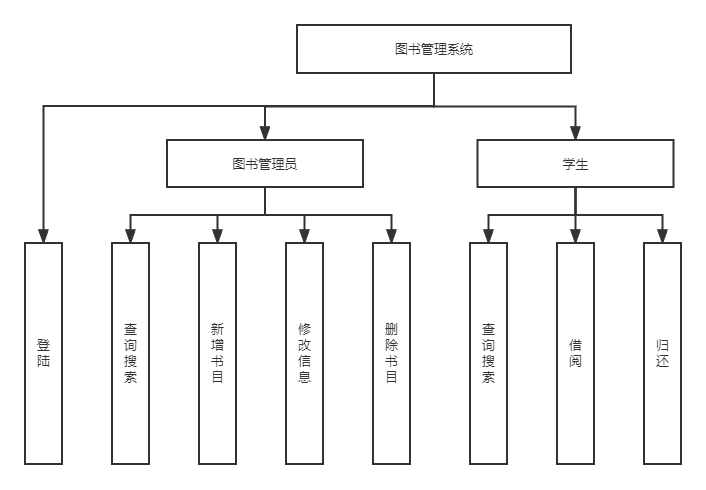
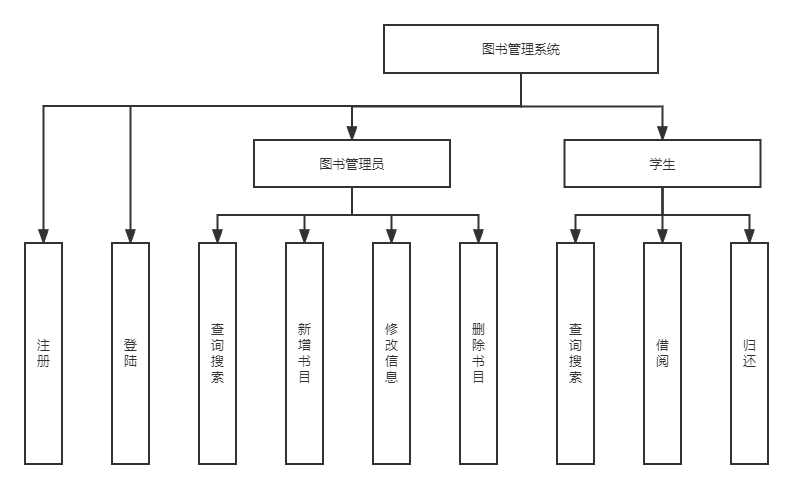
完成第一次迭代周期要求的文档

diff --git a/README.md b/README.md
@@ -3,8 +3,9 @@
 ## 一、软件计划文档
 
 ### 1.系统概述
-    读书可以开阔视野，提升思想水平，充实心灵，修身养性。
-    由于学校藏书量大，借阅人数多，人工工作方式不仅会照成办理时间的延误和人力资源的浪费，而且存在着各种信息不宜存放、易丢失、难以备份和查询等缺点，因此实现一个将各种图书管理和服务功能集合起来的管理系统就显得十分必要，既可以节省资源又可以有效存储、查询和更新信息，提高工作和服务效率。
+    读书可以开阔视野，提升思想水平，充实心灵，修身养性。  
+    由于学校藏书量大，借阅人数多，人工工作方式不仅会照成办理时间的延误和人力资源的浪费，而且存在着各种信息不宜存放、易丢失、难以备份和查询等缺点，  
+    因此实现一个将各种图书管理和服务功能集合起来的管理系统就显得十分必要，既可以节省资源又可以有效存储、查询和更新信息，提高工作和服务效率。
 
 ### 2.软件开发过程模型
 | 软件生命周期 | 是否首先定义好所有的需求 | 是否有多个开发周期 | 是否有中间软件 |
@@ -77,8 +78,9 @@
 
 ## 二、需求分析
 ### 1.系统概述
-    由于学校藏书量大，借阅人数多，人工工作方式不仅会照成办理时间的延误和人力资源的浪费，而且存在着各种信息不宜存放、易丢失、难以备份和查询等缺点，因此实现一个将各种图书管理和服务功能集合起来的管理系统就显得十分必要，既可以节省资源又可以有效存储、查询和更新信息，提高工作和服务效率。
-    本系统将用于对图书馆藏书进行管理，包括但不局限于查询搜索、增添书目、修改信息、删除书目以及借阅、归还等功能，并在项目的第三个迭代周期内考虑扩展一定的功能，具体将在后期补充。
+    由于学校藏书量大，借阅人数多，人工工作方式不仅会照成办理时间的延误和人力资源的浪费，而且存在着各种信息不宜存放、易丢失、难以备份和查询等缺点，  
+    因此实现一个将各种图书管理和服务功能集合起来的管理系统就显得十分必要，既可以节省资源又可以有效存储、查询和更新信息，提高工作和服务效率。  
+    本系统将用于对图书馆藏书进行管理，包括但不局限于查询搜索、增添书目、修改信息、删除书目以及借阅、归还等功能，并在项目的第三个迭代周期内考虑扩展一定的功能，具体将在后期补充。  
 
 ### 2.需求概述
 #### **目标**
@@ -102,3 +104,63 @@
 无特殊要求
 
 ### 4.需求规定
+#### 1)软件系统总体功能结构
+![Functional_structure_diagram](https://github.com/shiki21/LibraryManagementSystem/blob/main/media/系统功能结构图.png)
+
+#### 2)功能需求
+##### 数据流图
+- 顶层数据流图
+    ![top_Data_Flow_Diagram](https://github.com/shiki21/LibraryManagementSystem/blob/main/media/顶层数据流图.png)
+- 数据流图及加工判定树
+    ![Data_Flow_Diagram](https://github.com/shiki21/LibraryManagementSystem/blob/main/media/数据流图.png)
+    
+##### 用例图
+- 总用例图
+    ![total_use_case_diagram](https://github.com/shiki21/LibraryManagementSystem/blob/main/media/总用例图.png)
+- 用例描述
+    * __用例“注册”__
+        > 该用例是用户使用系统前需要进行的必要步骤，通过注册并登陆即可使用系统。  
+        > 角色为：图书管理员，学生。  
+        > 无前置条件，后置条件为可以使用用例“登陆”。  
+        > 基本流：进入用户注册界面，填写用户名，密码等信息后，若检查均合法，即可完成注册。  
+        > 备用流：用户名/密码等填写不规范，注册失败，提示用户请重新输入。  
+    * __用例“登陆”__
+        > 该用例是用户使用系统前需要进行的必要步骤，通过前一步注册后即可登陆，登陆后才可使用系统其他功能。  
+        > 角色为：图书管理员，学生。  
+        > 前置条件为“注册”，后置条件为可以使用出注册外的其他功能。  
+        > 基本流：进入用户注册界面，填写用户名，密码等信息后，若检查均合法，即可完成登陆。  
+        > 备用流：用户名/密码等填写不规范，注册失败，提示用户请重新输入。  
+    * __用例“查询搜索”__
+        > 该用例是用户使用系统时用于查看信息的主要功能，通过查询搜索可以将系统内图书的信息呈现出来。  
+        > 角色为：图书管理员，学生。  
+        > 前置条件为“登陆”，无后置条件。
+        > 基本流：进入查询搜索界面，填写关键词并点击搜索按钮，即可找到包含关键词的相应条目。  
+        > 备用流：数据库中不包含搜索的关键词，提示用户无相关结果和请重新输入。  
+    * __用例“新增图书”__
+        > 该用例是管理员进行新增图书信息的功能，通过填写合法的信息可在库中加入新的图书条目。  
+        > 角色为：图书管理员。  
+        > 前置条件为“登陆”，后置条件为“修改信息”和“删除图书”。  
+        > 基本流：进入新增图书界面，填写提示的所有图书所需要的信息后，若检查均合法，即可完成新增图书操作。  
+        > 备用流：图书名，ISBN等信息填写不规范，新增失败，提示用户请重新输入。  
+    * __用例“修改信息”__
+        > 该用例是管理员进行修改图书信息的功能，通过修改合法的信息可在库中修改对应图书条目的部分或全部信息。  
+        > 角色为：图书管理员。  
+        > 前置条件为“登陆”和“新增图书”，无后置条件。  
+        > 基本流：进入修改信息界面，重新填写所需要的信息后，若检查均合法，即可完成修改信息操作。  
+        > 备用流：图书名，ISBN等信息填写不规范，修改失败，提示用户重新输入。
+    * __用例“删除图书”__
+        > 该用例是管理员进行删除图书条目的相关功能，可删除已不存在的多余书目。  
+        > 角色为：图书管理员。  
+        > 前置条件为“登陆”和“新增图书”，无后置条件。  
+        > 基本流：进入删除图书界面，选择需要删除的图书条目，点击删除按钮并确认后，即可完成删除操作。  
+    * __用例“借阅”__
+        > 该用例是学生进行图书借阅的功能，在选择想借阅的图书后可修改库存剩余信息。  
+        > 角色为：学生。  
+        > 前置条件为“登陆”，后置条件为“归还”。  
+        > 基本流：进入借阅界面，查找想要借阅的图书条目，若库存大于零，点击确认后即可完成借阅操作。  
+        > 备用流：想要借阅的图书条目为零，借阅失败，提示用户请选择其他图书进行借阅。  
+    * __用例“归还”__
+        > 该用例是学生进行图书归还的功能，在选择想归还的图书后可修改库存剩余信息。  
+        > 角色为：学生。  
+        > 前置条件为“登陆”和“借阅”，无后置条件。  
+        > 基本流：进入归还界面，查找想要归还的图书条目，点击确认后即可完成归还操作。  
